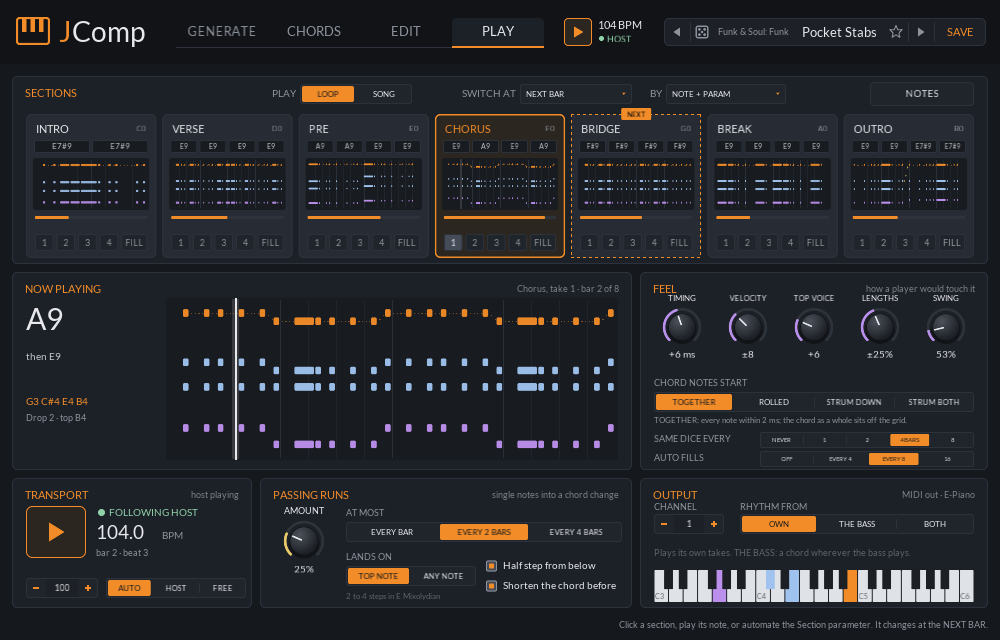
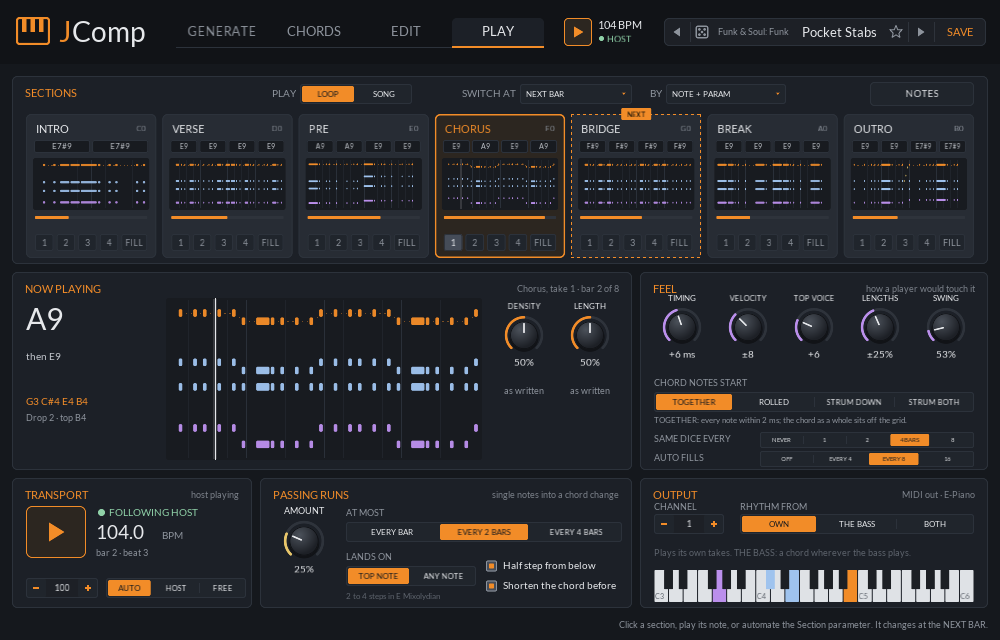
JComp 0.2.0: LENGTH, DENSITY, and a movable voicing window
LENGTH shortens every chord toward a chop or lengthens it toward legato.
DENSITY thins the take (weakest hits first, downbeats kept) or fills its
gaps with softer repeats of the chord. LOWEST and HIGHEST (renamed from
Range Low/High) are knobs now, OFFSET slides the window and CENTER, and
FLOOR is on a knob; voice leading stays inside the window as it moves.

Claude-Session: https://claude.ai/code/session_01FGswf7YxMj2ixngay6raQb

Changed region(s): [[0.186, 0.4688, 0.62, 0.7188], [0.372, 0.6562, 0.496, 0.7188], [0.496, 0.6875, 0.558, 0.7188]]

diff --git a/plugins/jcomp/src/editor.cpp b/plugins/jcomp/src/editor.cpp
@@ -1395,9 +1395,10 @@ public:
    explicit RangeKeys(EditorHost &host) : host_(host) {}
    void draw(visage::Canvas &c) override {
       const float s = ui::designScale(*this);
-      const int lo = static_cast<int>(std::lround(host_.paramValue(kRangeLow)));
-      const int hi = static_cast<int>(std::lround(host_.paramValue(kRangeHigh)));
-      const int floor = static_cast<int>(std::lround(host_.paramValue(kFloor)));
+      const int off = static_cast<int>(std::lround(host_.paramValue(kOffset)));
+      const int lo = static_cast<int>(std::lround(host_.paramValue(kRangeLow))) + off;
+      const int hi = static_cast<int>(std::lround(host_.paramValue(kRangeHigh))) + off;
+      const int floor = std::min(lo, static_cast<int>(std::lround(host_.paramValue(kFloor))));
       std::map<int, unsigned> lit;
       lit[floor] = kGreen;
       drawKeys(c, s, 0, 0, width() / s, height() / s, kLo, kHi, lit, false, lo, hi);
@@ -1405,7 +1406,9 @@ public:
    void mouseDown(const visage::MouseEvent &e) override {
       const float s = ui::designScale(*this);
       const float f = e.position.x / s / (width() / s);
-      const int key = kLo + static_cast<int>(f * (kHi - kLo + 1));
+      // The window as it sounds is LOWEST and HIGHEST moved by OFFSET; a click sets them before it.
+      const int off = static_cast<int>(std::lround(host_.paramValue(kOffset)));
+      const int key = kLo + static_cast<int>(f * (kHi - kLo + 1)) - off;
       const int lo = static_cast<int>(std::lround(host_.paramValue(kRangeLow)));
       const int hi = static_cast<int>(std::lround(host_.paramValue(kRangeHigh)));
       const clap_id id = std::abs(key - lo) < std::abs(key - hi) ? kRangeLow : kRangeHigh;
@@ -2697,20 +2700,30 @@ private:
          k.onChange = [this, id, old = k.onChange](double v) {
             if (old)
                old(v);
-            if (id == kCenter || id == kLead || id == kTopMove || id == kMaxSpan)
+            if (id == kCenter || id == kLead || id == kTopMove || id == kMaxSpan || id == kRangeLow || id == kRangeHigh ||
+                id == kOffset || id == kFloor)
                redraw();
          };
          return k;
       };
-      tips_.add(knob(kEditPage, {vx - 4, 186, 62, 78}, kCenter, "CENTER", kOrange), "Where the voicings sit: their middle is "
-                                                                                    "pulled to this note.");
-      tips_.add(knob(kEditPage, {vx + 58, 186, 62, 78}, kLead, "LEAD", kOrange),
+      tips_.add(knob(kEditPage, {vx - 2, 164, 58, 70}, kCenter, "CENTER", kOrange), "Where the voicings sit: their middle is "
+                                                                                    "pulled to this note (OFFSET moves it too).");
+      tips_.add(knob(kEditPage, {vx + 60, 164, 58, 70}, kLead, "LEAD", kOrange),
                 "How much each chord is led from the one before (the least movement) rather than placed in the middle.");
-      tips_.add(knob(kEditPage, {vx + 120, 186, 62, 78}, kTopMove, "TOP MOVE", kOrange),
+      tips_.add(knob(kEditPage, {vx + 122, 164, 58, 70}, kTopMove, "TOP MOVE", kOrange),
                 "The most the top voice should move from chord to chord, in semitones.");
-      tips_.add(knob(kEditPage, {vx + 182, 186, 62, 78}, kMaxSpan, "SPREAD", kOrange), "The widest a voicing may be, bottom to "
+      tips_.add(knob(kEditPage, {vx + 184, 164, 58, 70}, kMaxSpan, "SPREAD", kOrange), "The widest a voicing may be, bottom to "
                                                                                        "top.");
-      range_ = &onPage<RangeKeys>(kEditPage, {vx, 290, 240, 24}, host_);
+      tips_.add(knob(kEditPage, {vx - 2, 236, 58, 70}, kRangeLow, "LOWEST", kBlue),
+                "The lowest note a voicing may use. With HIGHEST it sets the window chords are led inside.");
+      tips_.add(knob(kEditPage, {vx + 60, 236, 58, 70}, kRangeHigh, "HIGHEST", kBlue),
+                "The highest note a voicing may use (the window is at least an octave).");
+      tips_.add(knob(kEditPage, {vx + 122, 236, 58, 70}, kOffset, "OFFSET", kBlue),
+                "Slides the whole window (and CENTER) up or down, up to an octave. Automate it and the voicings follow, "
+                "still led from chord to chord.");
+      tips_.add(knob(kEditPage, {vx + 184, 236, 58, 70}, kFloor, "FLOOR", kBlue), "Nothing goes under this note, even the "
+                                                                                    "bass part.");
+      range_ = &onPage<RangeKeys>(kEditPage, {vx, 324, 240, 18}, host_);
       range_->onSet = [this](clap_id id, double v) {
          setParam(id, v);
          redraw();
@@ -2720,7 +2733,7 @@ private:
       const char *names[3] = {"Double a note in the middle, not on top", "No half-step rubs below C4",
                               "Same shape for repeated chords"};
       for (int i = 0; i < 3; ++i) {
-         auto &b = onPage<CheckBox>(kEditPage, {vx, 324 + i * 18.0f, 240, 16}, names[i]);
+         auto &b = onPage<CheckBox>(kEditPage, {vx, 348 + i * 16.0f, 240, 15}, names[i]);
          const clap_id id = boxes[i];
          b.onToggle = [this, id](bool on) {
             setParam(id, on ? 1.0 : 0.0);
@@ -2793,10 +2806,12 @@ private:
       drawCard(c, s, 720, 112, 268, 288, "VOICING", "all sections");
       const int shape = std::clamp(whole(kShape), 0, kShapeCount - 1);
       shape1_->setSelected(shape);
-      label(c, s, "RANGE", 734, 272, 60, 0, visage::Font::kLeft, 9.5f);
-      label(c, s, noteText(whole(kRangeLow)) + " \xE2\x80\x93 " + noteText(whole(kRangeHigh)) + " \xC2\xB7 nothing under " +
-                     noteText(whole(kFloor)),
-            734, 272, 240, 0, visage::Font::kRight, 8.5f);
+      {
+         const VoiceSettings v = vs();
+         label(c, s, "WINDOW", 734, 309, 60, 0, visage::Font::kLeft, 9.5f);
+         label(c, s, noteText(v.lo) + " \xE2\x80\x93 " + noteText(v.hi) + " \xC2\xB7 nothing under " + noteText(v.floor),
+               734, 309, 240, 0, visage::Font::kRight, 8.5f);
+      }
       const clap_id boxes[3] = {kDoubleMiddle, kNoRubs, kSameShape};
       for (int i = 0; i < 3; ++i)
          voiceChecks_[i]->on = whole(boxes[i]) != 0;
@@ -2870,7 +2885,7 @@ private:
          redraw();
       };
 
-      now_ = &onPage<NowPlaying>(kPlayPage, {26, 298, 592, 162}, host_);
+      now_ = &onPage<NowPlaying>(kPlayPage, {26, 298, 456, 162}, host_);
       wire(*now_);
 
       auto knob = [this](ui::Rect r, clap_id id, const char *name, unsigned accent) -> ui::Knob & {
@@ -2885,6 +2900,12 @@ private:
          bindings_.bind(k, id);
          return k;
       };
+      tips_.add(knob({492, 300, 64, 80}, kDensity, "DENSITY", kOrange),
+                "Fewer or more chords: below the middle the weakest hits drop out (a bar's downbeat stays), above it "
+                "softer repeats of the chord fill the gaps, eighths first. The middle plays the take as written.");
+      tips_.add(knob({558, 300, 64, 80}, kLength, "LENGTH", kOrange),
+                "Every chord shorter (down to a chop) or longer (up to legato, held to the next). The middle is as "
+                "written.");
       tips_.add(knob({650, 292, 64, 80}, kTiming, "TIMING", kPurple), "How far behind (or ahead of) the beat the chords sit.");
       tips_.add(knob({716, 292, 64, 80}, kVelocityVar, "VELOCITY", kPurple), "How much each chord's loudness varies.");
       tips_.add(knob({782, 292, 64, 80}, kTopVoice, "TOP VOICE", kPurple), "The top note this much louder, so the line "
@@ -2987,6 +3008,13 @@ private:
                     frame_.bar % std::max<int>(1, sx.bars) + 1, static_cast<int>(sx.bars));
       drawCard(c, s, 12, 272, 620, 198, "NOW PLAYING", note);
       drawCard(c, s, 640, 272, 348, 198, "FEEL", "how a player would touch it");
+      {
+         auto words = [](double v, const char *low, const char *high) {
+            return std::abs(v - 0.5) < 0.03 ? std::string("as written") : std::string(v < 0.5 ? low : high);
+         };
+         label(c, s, words(param(kDensity), "thinner", "busier"), 492, 384, 64, 0, visage::Font::kCenter, 8.5f);
+         label(c, s, words(param(kLength), "shorter", "longer"), 558, 384, 64, 0, visage::Font::kCenter, 8.5f);
+      }
       label(c, s, "CHORD NOTES START", 654, 376, 200, 0, visage::Font::kLeft, 9);
       static const char *const onsetWords[4] = {"TOGETHER: every note within 2 ms; the chord as a whole sits off the grid.",
                                                 "ROLLED: bottom to top, about 14 ms a note.",

diff --git a/plugins/jcomp/src/engine.h b/plugins/jcomp/src/engine.h
@@ -49,6 +49,8 @@ struct Settings {
    double velocityVar = 8.0;
    double topVoice = 6.0;
    double lengths = 0.25;
+   double length = 0.5;  // LENGTH: down to chops, as written at the middle, up to legato
+   double density = 0.5; // DENSITY: thinned below the middle, filled in above
    int onsets = 0;
    double vary = 0.2;
    double loose = 0.3;      // the player's: how far each chord wanders off the grid
@@ -587,18 +589,39 @@ private:
          lookForRun(p, step, steps, stepTicks, t, secRel, bar);
       if (runTick_ >= 0 && t < runTick_)
          return; // the run has these steps
-      const Hit &h = p.at(step);
+      const Hit &written = p.at(step);
       const bool target = runTick_ == t;
+      const int perBeat = p.rate == kRate8T ? 3 : 4;
+      const bool onBeat = step % perBeat == 0;
+      const bool onEighth = p.rate == kRate8T ? step % 3 != 1 : step % 2 == 0;
+      Hit h = written;
       if (!h.on()) {
-         if (target)
+         if (target) {
             runTick_ = -1;
-         return;
+            return;
+         }
+         // DENSITY above the middle fills the gaps: eighths first, then sixteenths, as softer
+         // repeats of the chord sounding.
+         const double more = (settings_.density - 0.5) * 2.0;
+         if (more <= 0.0 || lastChord_.none() || last_.empty())
+            return;
+         const double chance = onEighth ? more * 0.85 : std::max(0.0, more - 0.35) * 1.2;
+         if (dice(diceBar_, step, 21) >= chance)
+            return;
+         h.vel = static_cast<uint8_t>(onBeat ? kSoft : kGhost + (onEighth ? 10 : 0));
+         h.len = 1;
+         h.art = more > 0.85 ? kArtAsWritten : kArtChop;
+      } else if (!target && settings_.density < 0.5 && !(step % (perBeat * 4) == 0)) {
+         // DENSITY below the middle thins the take, the weakest hits first; a bar's downbeat stays.
+         const double weight = (onBeat ? 0.7 : onEighth ? 0.45 : 0.2) + 0.25 * h.vel / 127.0;
+         const double fewer = (0.5 - settings_.density) * 2.0;
+         if (weight + 0.15 * dice(diceBar_, step, 20) < fewer * 1.1)
+            return;
       }
       if (!target) {
          if (h.chance < 100 && dice(diceBar_, step, 4) * 100.0 >= h.chance)
             return;
          // VARY drops a soft hit now and then (never one on a beat).
-         const bool onBeat = step % (p.rate == kRate8T ? 3 : 4) == 0;
          if (settings_.vary > 0.0 && !onBeat && h.vel < kNormal && dice(diceBar_, step, 5) < settings_.vary * 0.25)
             return;
       }
@@ -722,6 +745,11 @@ private:
       case kArtTopRings: len = gapBeats * 0.97; break;
       default: break;
       }
+      // LENGTH: shorter toward a chop, longer toward the next chord.
+      if (settings_.length < 0.5)
+         len *= 0.15 + 0.85 * settings_.length / 0.5;
+      else if (settings_.length > 0.5 && gapBeats * 0.97 > len)
+         len += (gapBeats * 0.97 - len) * (settings_.length - 0.5) / 0.5;
       len *= 1.0 + (dice(diceBar_, step, 12) * 2.0 - 1.0) * settings_.lengths;
       len = std::max(len, 0.05 * tempo_ / 60.0);
       cutFrom(at - 0.003);

diff --git a/plugins/jcomp/tests/test_engine.cpp b/plugins/jcomp/tests/test_engine.cpp
@@ -6,6 +6,7 @@
 #include <jclap/core/test_host.h>
 
 #include <algorithm>
+#include <map>
 #include <memory>
 #include <set>
 #include <string>
@@ -242,6 +243,66 @@ int main() {
          if (t.on() && !times.insert(t.time / 200).second)
             ++together;
       JCLAP_CHECK(together > 6);
+   }
+   {
+      // DENSITY thins or fills the take, LENGTH shortens or lengthens every chord, and LOWEST,
+      // HIGHEST and OFFSET bound the voicings as the window moves.
+      Song song;
+      generateSong(recipeOf(0, 0, 42), song);
+      struct Stats {
+         int ons = 0, lo = 127, hi = 0;
+         double meanLen = 0;
+      };
+      auto play = [&](double density, double length, int offset, int lowest = 50, int highest = 76) {
+         std::vector<double> v = defaultValues();
+         v[kRangeLow] = lowest;
+         v[kRangeHigh] = highest;
+         v[kOffset] = offset;
+         Engine e;
+         e.setSong(song);
+         Settings s = settingsFor(Recipe{});
+         s.voicing = voiceSettings([&](clap_id id) { return v[id]; });
+         s.density = density;
+         s.length = length;
+         s.lengths = 0;
+         s.runs = 0;
+         s.key = song.key;
+         e.setSettings(s);
+         e.reset();
+         const std::vector<Timed> out = run(e, 48000 * 8);
+         Stats st;
+         std::map<int, int64_t> started;
+         double total = 0;
+         int ended = 0;
+         for (const Timed &t : out) {
+            if (t.on()) {
+               ++st.ons;
+               st.lo = std::min<int>(st.lo, t.m.data1);
+               st.hi = std::max<int>(st.hi, t.m.data1);
+               started[t.m.data1] = t.time;
+            } else if (t.off() && started.count(t.m.data1)) {
+               total += static_cast<double>(t.time - started[t.m.data1]);
+               ++ended;
+               started.erase(t.m.data1);
+            }
+         }
+         st.meanLen = ended ? total / ended : 0;
+         return st;
+      };
+      const Stats mid = play(0.5, 0.5, 0), thin = play(0.0, 0.5, 0), busy = play(1.0, 0.5, 0);
+      JCLAP_CHECK(thin.ons < mid.ons);
+      JCLAP_CHECK(thin.ons > 0); // the downbeats stay
+      JCLAP_CHECK(busy.ons > mid.ons);
+      const Stats shortNotes = play(0.5, 0.0, 0), longNotes = play(0.5, 1.0, 0);
+      JCLAP_CHECK(shortNotes.meanLen < mid.meanLen * 0.6);
+      JCLAP_CHECK(longNotes.meanLen > mid.meanLen);
+      // The window, and the window moved: every note inside it.
+      for (int offset : {-12, -5, 0, 7, 12}) {
+         const Stats w = play(0.5, 0.5, offset, 55, 72);
+         JCLAP_CHECK(w.ons > 0);
+         JCLAP_CHECK(w.lo >= 55 + offset);
+         JCLAP_CHECK(w.hi <= 72 + offset);
+      }
    }
    {
       // Held notes: E G# B D held above the split, with CHORDS FROM held notes, play an E7.

diff --git a/plugins/jcomp/src/params.h b/plugins/jcomp/src/params.h
@@ -70,6 +70,7 @@ enum ParamId : clap_id {
    kMaxSpan,
    kRangeLow,
    kRangeHigh,
+   kOffset,
    kFloor,
    kDoubleMiddle,
    kNoRubs,
@@ -92,6 +93,8 @@ enum ParamId : clap_id {
    kVelocityVar,
    kTopVoice,
    kLengths,
+   kLength,
+   kDensity,
    kOnsets,
    kVary,
    // Passing runs.
@@ -160,8 +163,9 @@ inline const jclap::core::ParamDef *makeParams() {
    p[kLead] = {kLead, "Lead", "Voicing", 0, 1, 0.85, kMod};
    p[kTopMove] = {kTopMove, "Top Move", "Voicing", 1, 12, 4, kStep};
    p[kMaxSpan] = {kMaxSpan, "Spread", "Voicing", 7, 30, 17, kStep};
-   p[kRangeLow] = {kRangeLow, "Range Low", "Voicing", 36, 72, 50, kStep};
-   p[kRangeHigh] = {kRangeHigh, "Range High", "Voicing", 60, 96, 76, kStep};
+   p[kRangeLow] = {kRangeLow, "Lowest", "Voicing", 36, 72, 50, kStep};
+   p[kRangeHigh] = {kRangeHigh, "Highest", "Voicing", 60, 96, 76, kStep};
+   p[kOffset] = {kOffset, "Offset", "Voicing", -12, 12, 0, kStep};
    p[kFloor] = {kFloor, "Bass Floor", "Voicing", 28, 60, 43, kStep};
    p[kDoubleMiddle] = {kDoubleMiddle, "Double In The Middle", "Voicing", 0, 1, 1, kChoice};
    p[kNoRubs] = {kNoRubs, "No Low Rubs", "Voicing", 0, 1, 1, kChoice};
@@ -182,6 +186,8 @@ inline const jclap::core::ParamDef *makeParams() {
    p[kVelocityVar] = {kVelocityVar, "Velocity", "Feel", 0, 24, 8, kMod};
    p[kTopVoice] = {kTopVoice, "Top Voice", "Feel", 0, 24, 6, kMod};
    p[kLengths] = {kLengths, "Lengths", "Feel", 0, 0.6, 0.25, kMod};
+   p[kLength] = {kLength, "Length", "Feel", 0, 1, 0.5, kMod};
+   p[kDensity] = {kDensity, "Density", "Feel", 0, 1, 0.5, kMod};
    p[kOnsets] = {kOnsets, "Chord Notes Start", "Feel", 0, 3, 0, kChoice};
    p[kVary] = {kVary, "Vary", "Feel", 0, 1, 0.2, kMod};
    p[kRuns] = {kRuns, "Runs", "Runs", 0, 1, 0.25, kMod};
@@ -303,7 +309,7 @@ inline std::string noteText(int note) {
 }
 
 inline bool isPercent(clap_id id) {
-   return id == kBlend || id == kEnergy || id == kWeird || id == kMutation || id == kVary || id == kLead || id == kRuns ||
+   return id == kBlend || id == kEnergy || id == kWeird || id == kMutation || id == kVary || id == kLead || id == kLength || id == kDensity || id == kRuns ||
           id == kSwing || (id >= kSectionEnergy && id < kSectionEnergy + kSections);
 }
 inline bool isNote(clap_id id) {
@@ -332,6 +338,8 @@ inline void formatParam(clap_id id, double value, char *out, size_t size) {
       std::snprintf(out, size, "+%ld", whole);
    else if (id == kLengths)
       std::snprintf(out, size, "\xC2\xB1%.0f%%", value * 100.0);
+   else if (id == kOffset)
+      std::snprintf(out, size, "%+ld st", whole);
    else if (id == kTopMove || id == kMaxSpan)
       std::snprintf(out, size, "%ld st", whole);
    else if (id == kNoteChannel && whole == 0)

diff --git a/plugins/jcomp/src/recipe.h b/plugins/jcomp/src/recipe.h
@@ -90,10 +90,12 @@ VoiceSettings voiceSettings(Get value) {
    VoiceSettings v;
    v.shape = std::clamp(whole(kShape), 0, kShapeCount - 1);
    v.voices = std::clamp(whole(kVoices), 3, 5);
-   v.lo = whole(kRangeLow);
-   v.hi = std::max(v.lo + 12, whole(kRangeHigh));
-   v.center = std::clamp(whole(kCenter), v.lo, v.hi);
-   v.floor = whole(kFloor);
+   // LOWEST and HIGHEST set the window (at least an octave), OFFSET slides it and its center.
+   const int offset = whole(kOffset);
+   v.lo = std::clamp(whole(kRangeLow) + offset, 24, 96);
+   v.hi = std::clamp(std::max(whole(kRangeLow) + 12, whole(kRangeHigh)) + offset, v.lo + 12, 108);
+   v.center = std::clamp(whole(kCenter) + offset, v.lo, v.hi);
+   v.floor = std::min(whole(kFloor), v.lo);
    v.topMove = whole(kTopMove);
    v.maxSpan = whole(kMaxSpan);
    v.lead = value(kLead);

diff --git a/plugins/jcomp/src/plugin.cpp b/plugins/jcomp/src/plugin.cpp
@@ -431,6 +431,8 @@ private:
       s.velocityVar = value(kVelocityVar);
       s.topVoice = value(kTopVoice);
       s.lengths = value(kLengths);
+      s.length = value(kLength);
+      s.density = value(kDensity);
       s.onsets = whole(kOnsets);
       s.vary = value(kVary);
       s.loose = kPlayerList[std::clamp(whole(kPlayer), 0, kPlayers - 1)].loose;

diff --git a/plugins/jcomp/README.md b/plugins/jcomp/README.md
@@ -18,7 +18,7 @@ line. Mutate any section until it sits right, edit any hit, then switch sections
 note or by automation. It plays with the host's transport, or on its own PLAY while the host is
 stopped.
 
-Version 0.1.0.
+Version 0.2.0.
 
 ![Panel](docs/panel.png)
 
@@ -166,8 +166,13 @@ How every chord is voiced, for all sections:
 - **CENTER**: where the voicings sit. **LEAD**: how much each chord is led from the one before (the
   least total movement) rather than placed at the center. **TOP MOVE**: the most the top voice should
   move, in semitones. **SPREAD**: the widest a voicing may be.
-- **RANGE**: the window voicings stay in (click near either end to move it), and the floor (green)
-  nothing goes under.
+- **LOWEST** and **HIGHEST**: the window every voicing stays inside (at least an octave), so how wide
+  the chords can spread. **OFFSET** slides the whole window, and CENTER with it, up to an octave either
+  way. Voice leading stays bounded by the window wherever it is: each chord is still led from the one
+  before by the least movement that fits, so automating OFFSET moves the voicings smoothly rather than
+  in jumps. A window too narrow for a chord gets fewer voices or a tighter shape, never a note outside
+  it. **FLOOR**: nothing goes under this note, the bass part included. The keyboard under the knobs
+  shows the window as it sounds (click near either end to move it), the floor in green.
 - *Double a note in the middle, not on top*, *No half-step rubs below C4*, *Same shape for repeated
   chords*.
 
@@ -203,7 +208,14 @@ note, the Section parameter, or both.
 ### NOW PLAYING
 
 The chord sounding, big, the chord after it, its notes and its shape, and the take on a roll with the
-playhead.
+playhead. Beside it, two knobs that change the whole part as it plays:
+
+- **DENSITY**: fewer or more chords. Below the middle the weakest hits drop out first (soft off-beats,
+  then off-beats, then the lesser beats; a bar's downbeat always stays). Above it, softer repeats of
+  the chord sounding fill the gaps, eighths first, then sixteenths. The middle plays the take as
+  written, and the same setting always gives the same pattern.
+- **LENGTH**: every chord shorter, down to a staccato chop, or longer, up to legato (held to the next
+  chord). The middle plays the lengths as written.
 
 ### FEEL
 
